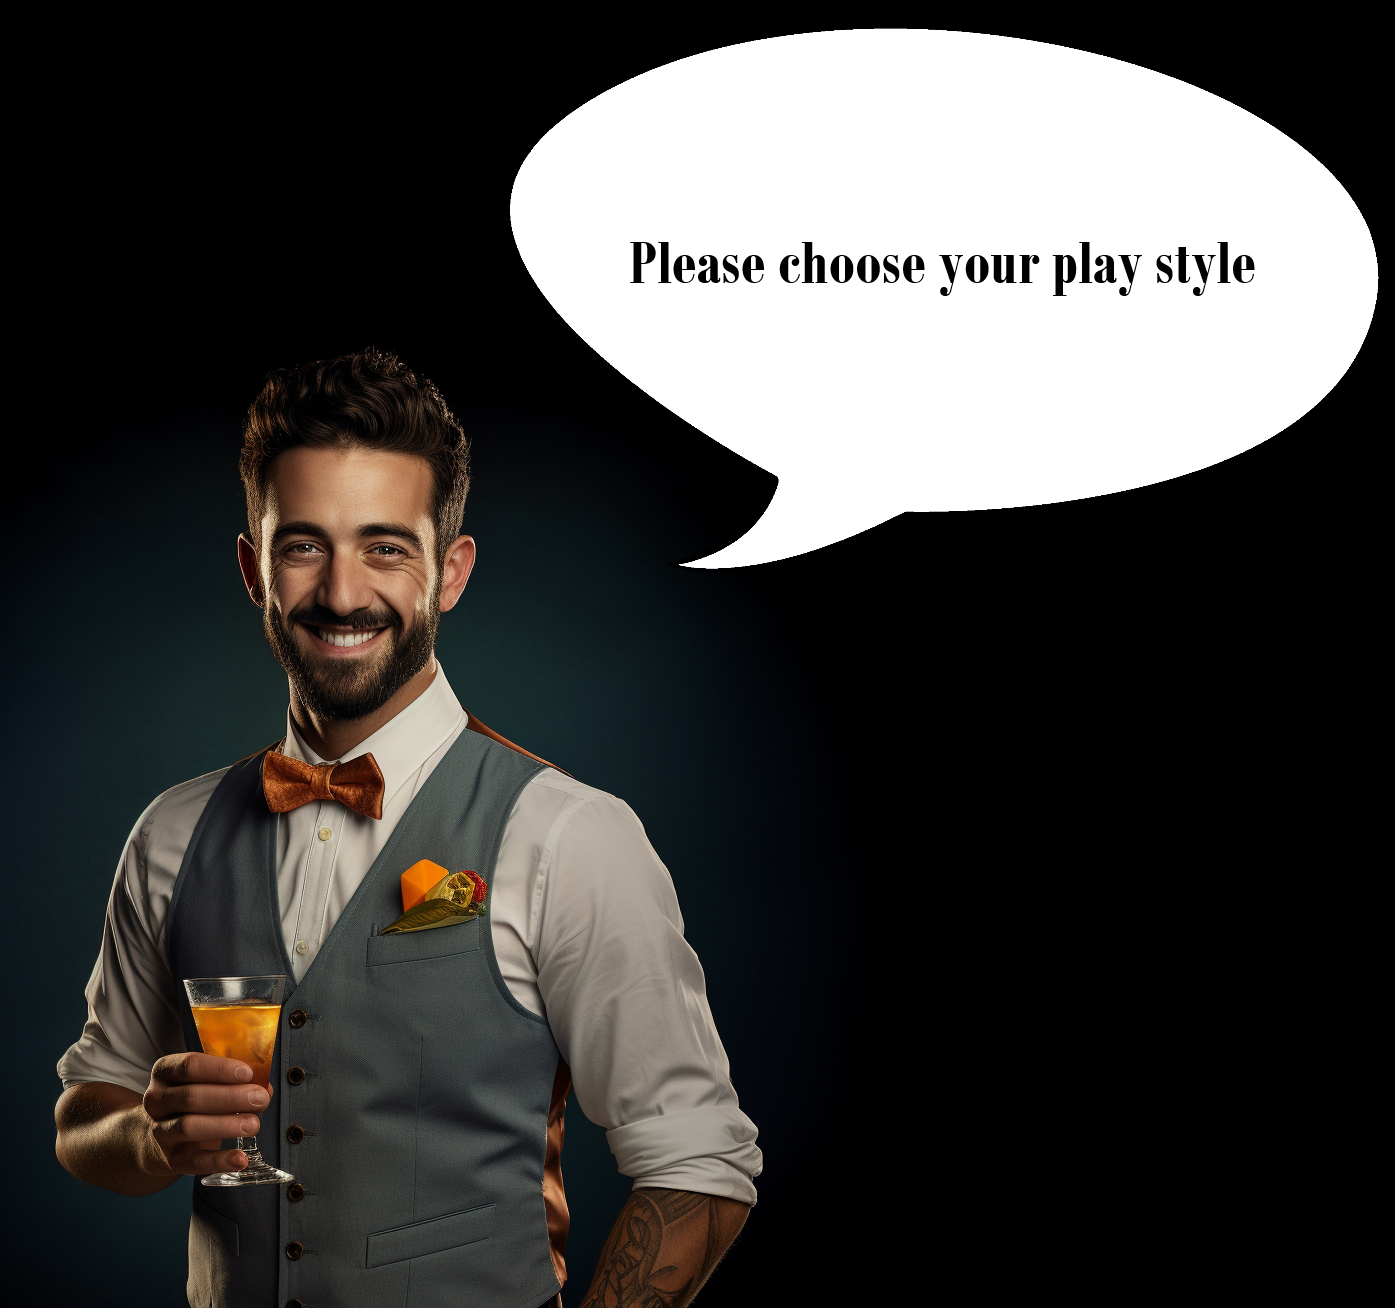
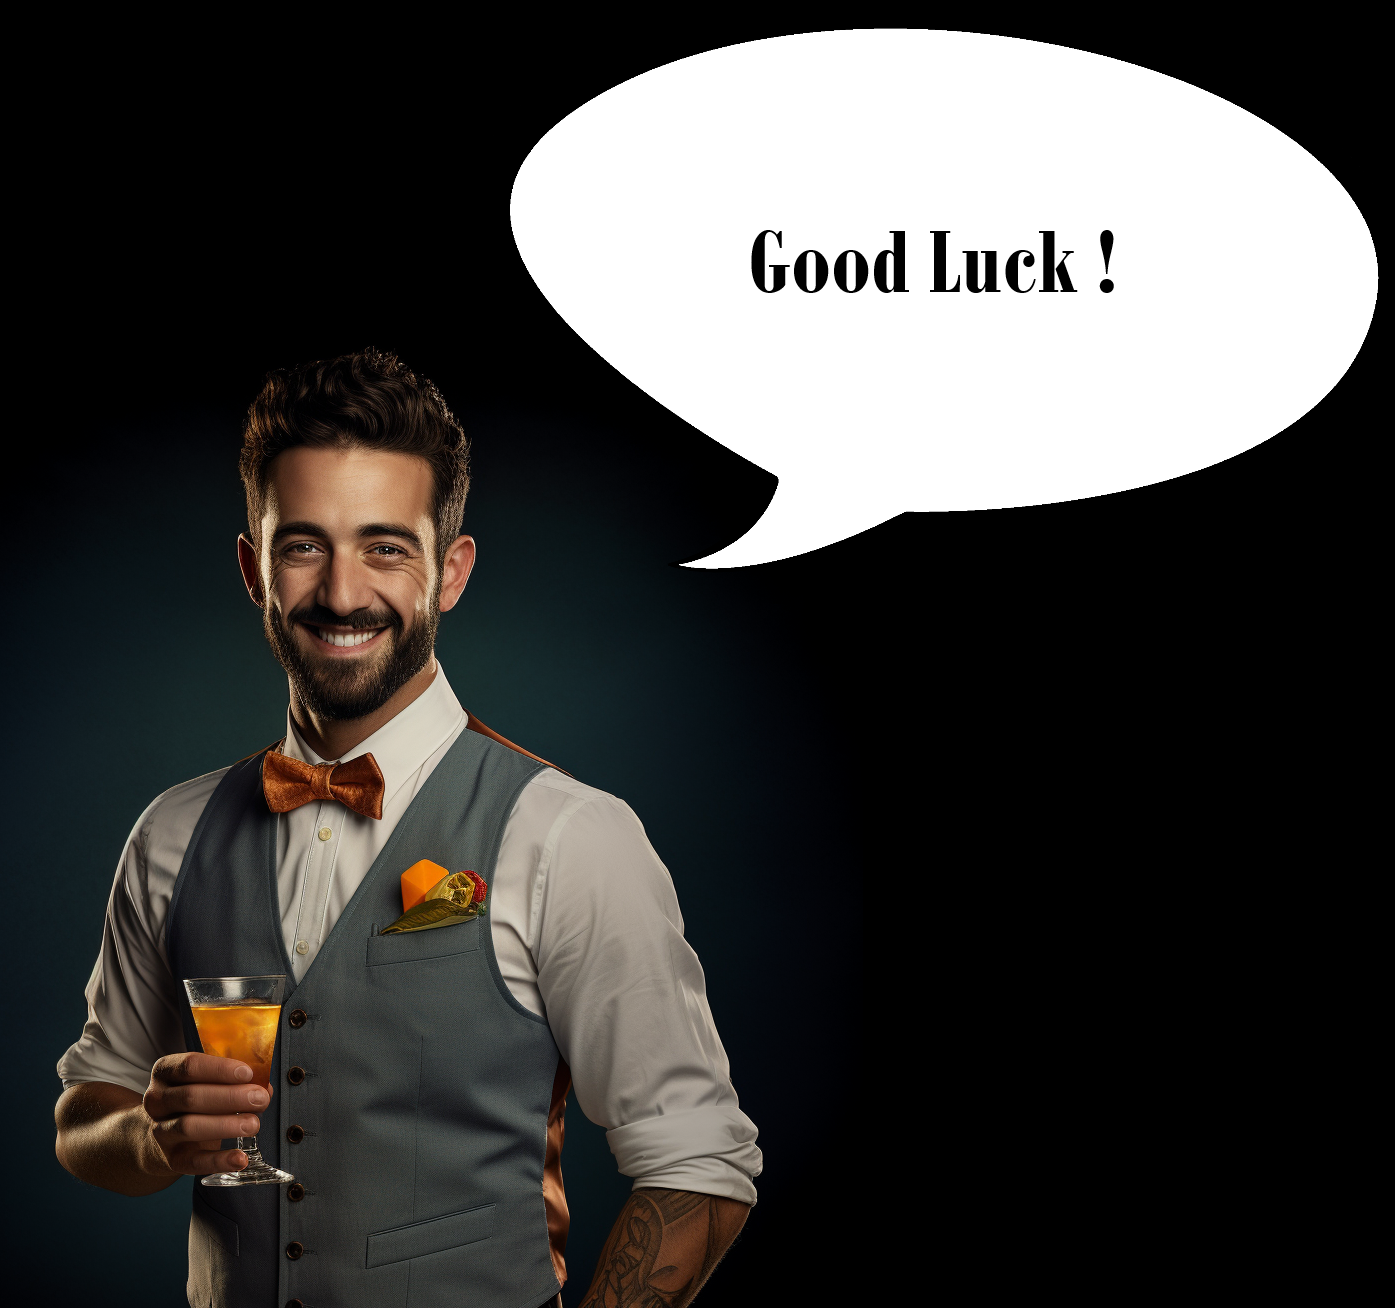
Deleted pics and changed text color

Changed region(s): [[0.4315, 0.1835, 0.8939, 0.2446]]

diff --git a/assets/css/style.css b/assets/css/style.css
@@ -16,12 +16,12 @@ body {
 
 
 h1 {
-    color: white;
+    color: #a3b1a0 ;
     margin-bottom: 50px;
 }
 
 p {
-    color: white;
+    color: #a3b1a0 ;
     font-size: 75%;
     margin-bottom: 75px;
 }
@@ -32,6 +32,9 @@ div {
 .button {
     width: 100px;
     margin: 15px auto;
+    border: solid 1px #a3b1a0 ;
+    border-radius: 15px;
+    background-color: #a3b1a0 ;
 }
 #buttons-div { 
     display: flex;
@@ -92,7 +95,14 @@ div {
         width: 10%;
     }
     .button {
-        width: 2%%;
+        width: 15%;
+    }
+
+    h1 {
+        font-size: 350%;
+    }
+    p {
+        font-size: 100%;
     }
 }
 

diff --git a/index.html b/index.html
@@ -15,7 +15,7 @@
         <img class="die dice-image-2" src="" alt="Image of a die.">
     </div>
     <h1>Roll Those Dice</h1>
-    <p>Can you guess what will be the next roll?</p>
+    <p>Can you guess if the next roll will be higher or lower?</p>
     <div id="buttons-div">
         <button name="button-one" class="button">One die</button>
         <button name="button-two" class="button">Two dice</button>

diff --git a/assets/js/script.js b/assets/js/script.js
@@ -47,7 +47,7 @@ function gameModeSelected() {
     paragraph[0].style.display = "none";
 
     //Changes bartdender image to "Good Luck!" and then plain
-    bartender.src = "assets/images/bartender5.png";
+    bartender.src = "assets/images/bartender4.png";
     setTimeout(() => {
         bartender.src = "assets/images/bartender.png";
     }, 1000);
